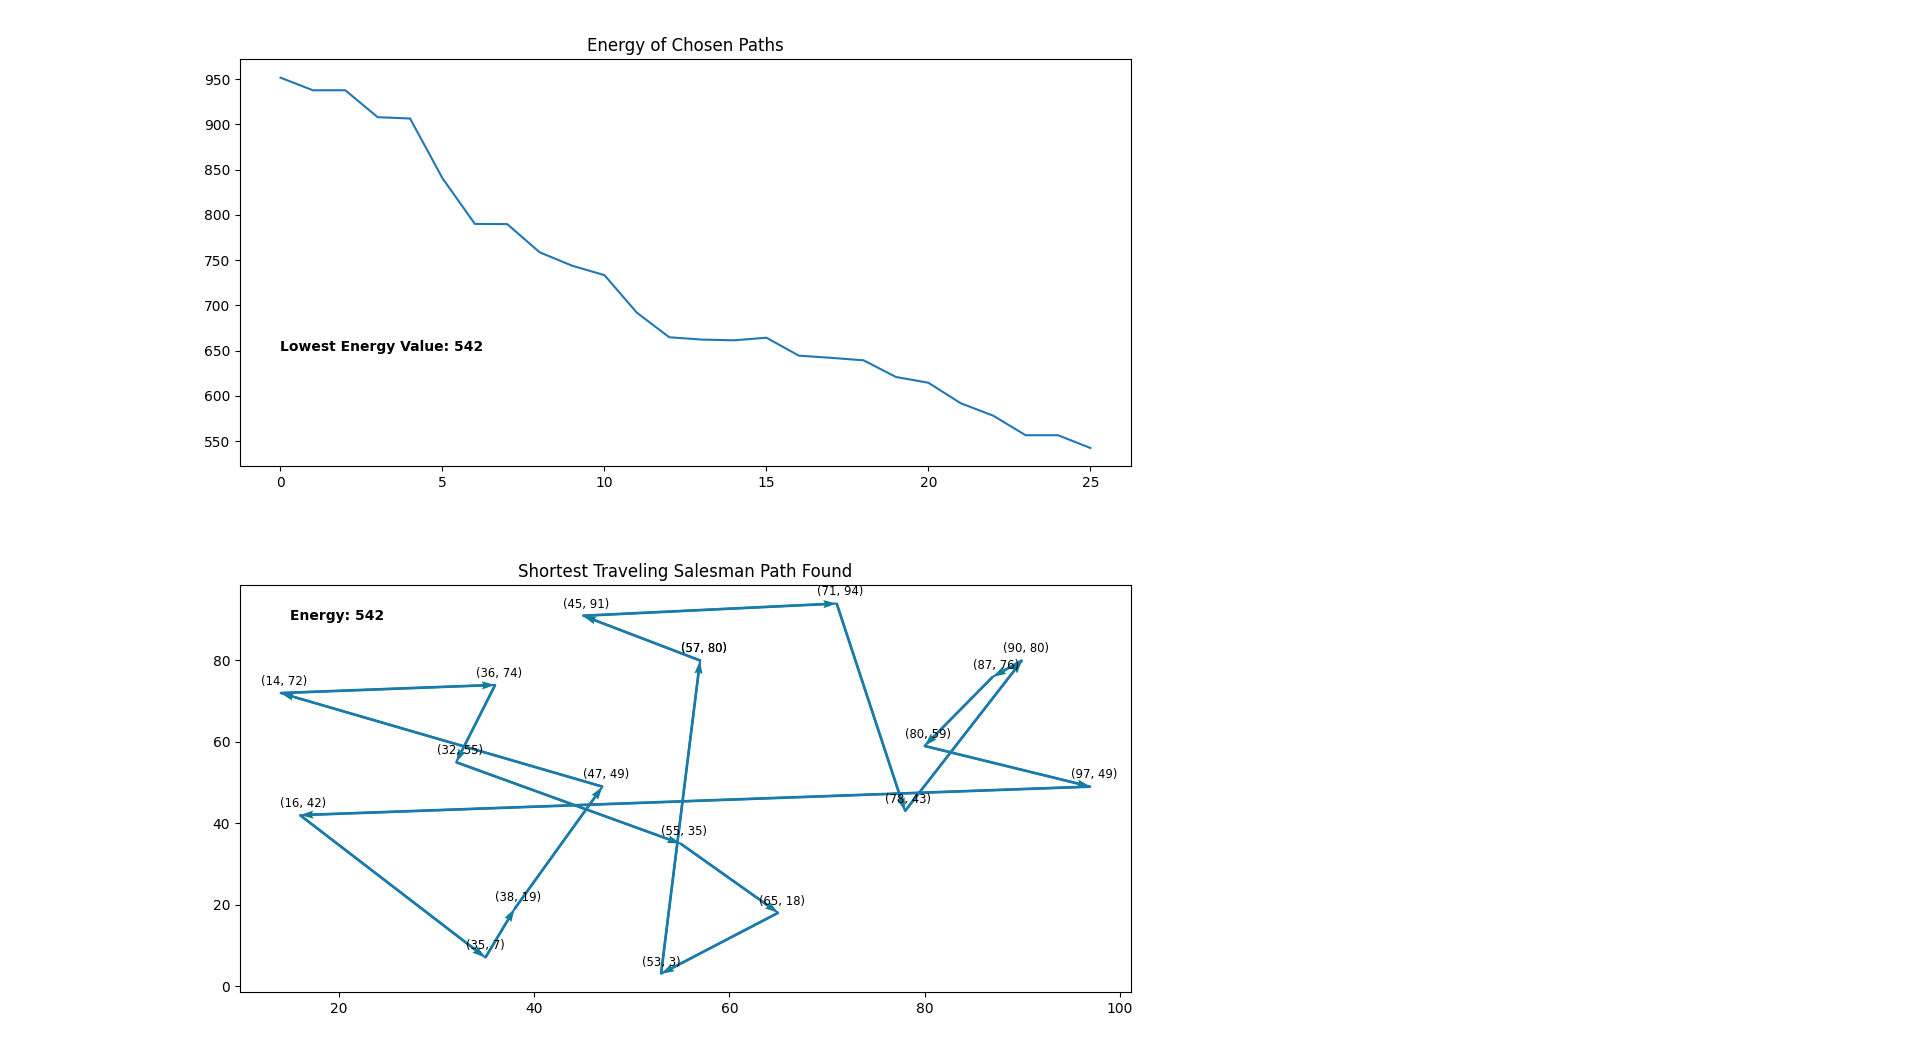
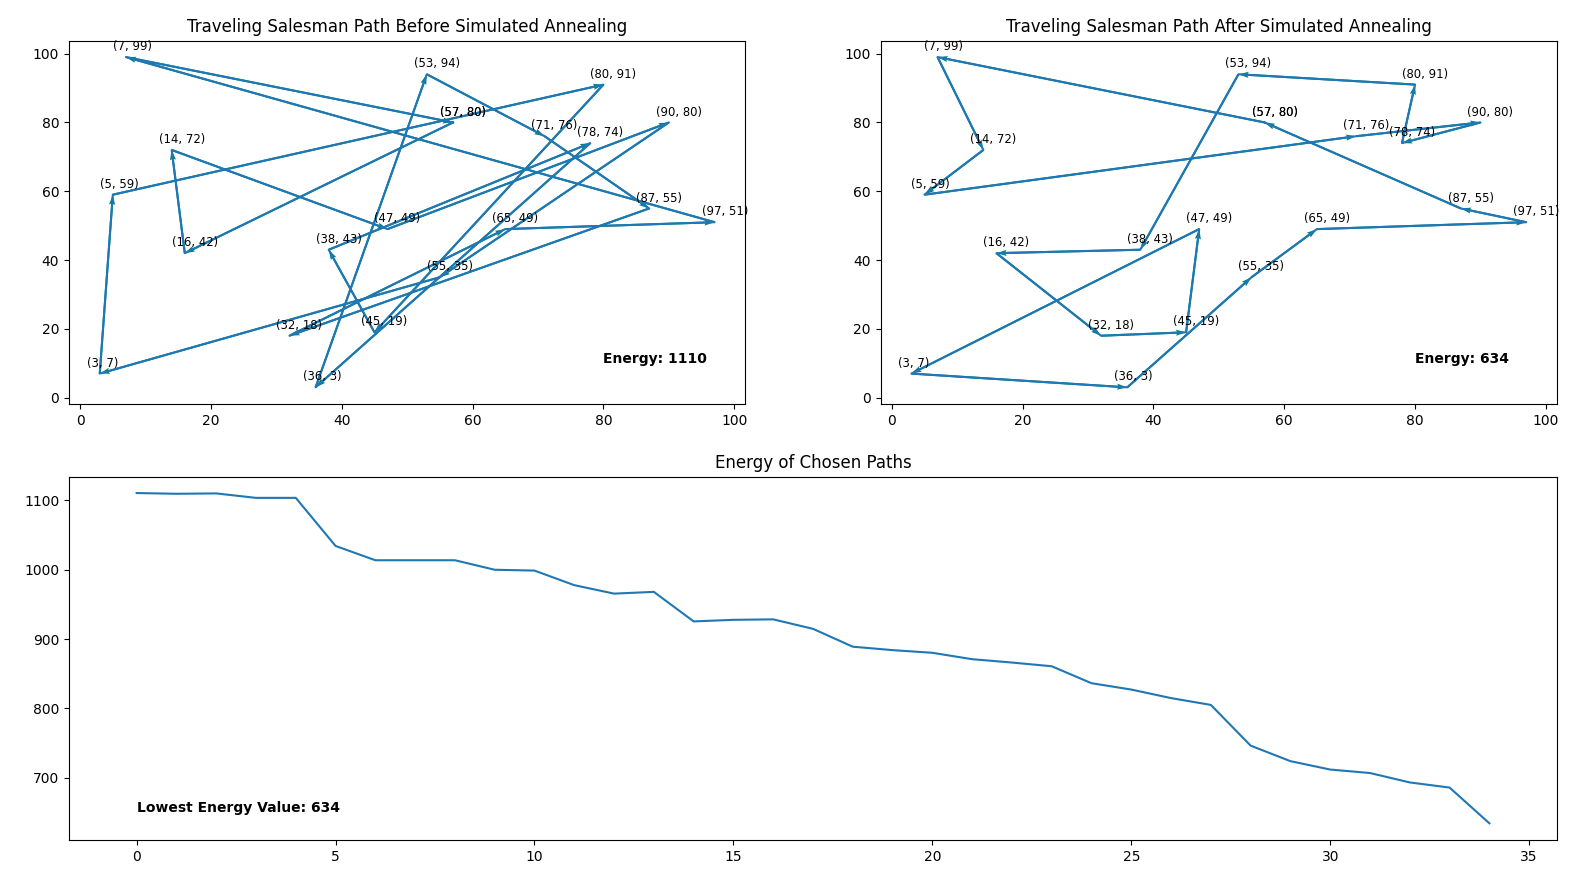
final changes with 3 subplots

diff --git a/project2/project2.py b/project2/project2.py
@@ -4,12 +4,13 @@ import random
 import time
 import copy
 
-xpos = np.array([57, 16, 14, 47, 90, 55, 35, 80, 45, 38, 78, 36, 53, 71, 87, 32, 65, 97, 7])
+xpos = np.array([57, 16, 14, 47, 90, 55, 3, 5, 80, 45, 38, 78, 36, 53, 71, 87, 32, 65, 97, 7])
 ypos = np.array([80, 42, 72, 49, 80, 35, 7, 59, 91, 19, 43, 74, 3, 94, 76, 55, 18, 49, 51, 99])
 
 # Define iterator, second parameter is the step size
 # The first and the last coordinates in the paths will never be chosen
-iterator = np.arange(1,xpos.size-1,1)
+iterator = np.arange(1,xpos.size,1)
+original_iterator = copy.deepcopy(iterator)
 
 def get_distance(x1,y1,x2,y2):
     """x1/y1 correspond to first coordinate
@@ -56,8 +57,8 @@ ax.clear()
 best_iterator = copy.deepcopy(iterator)
 loop_counter = 1
 T = 2
-T_stop = 0.00001
-T_decimation = 0.9999 
+T_stop = 0.000001
+T_decimation = 0.99999 
 while T > T_stop:
     loop_counter += 1
     iterator = swap(iterator)
@@ -94,43 +95,55 @@ while T > T_stop:
     plt.title("Traveling Salesman Path")
     for i, j in zip(xpath, ypath): # Writes the (x,y) coordinates above the coordinate location
             plt.text(i-4, j+1, '({}, {})'.format(i, j), fontsize='small')
-    plt.text(10, 90, f'Energy: {int(energy)}', fontsize='medium', weight="bold")
+    plt.text(60, 15, f'Energy: {int(energy)}', fontsize='medium', weight="bold")
     format_T = "{:.3f}".format(T)
-    plt.text(10, 85, f'Temperature: {format_T}', fontsize='medium', weight="bold")
+    plt.text(60, 10, f'Temperature: {format_T}', fontsize='medium', weight="bold")
     fig.canvas.draw()
     # to flush the GUI events
     fig.canvas.flush_events()
     ax.clear()
     time.sleep(0.1)
 
-# print(f"best_iterator: {best_iterator}")
+# print(f"original_iterator size: {original_iterator.size}\n{original_iterator}")
+# print(f"best_iterator size: {best_iterator.size}\n{best_iterator}")
 lowest_energy = total_energy(xpos,ypos,best_iterator)
-print(f"lowest_energy: {lowest_energy}")
-print(f"min value in energy_list: {np.amin(energy_list)}")
-energy = total_energy(xpos,ypos,best_iterator)
+# print(f"lowest_energy: {lowest_energy}")
+# print(f"min value in energy_list: {np.amin(energy_list)}")
 
 # Turn off the fast updating plot
 plt.ioff()
 ax.remove()
 
 # Plot the energy decrease over time
-plt.subplot(2, 1, 1)
+plt.subplot(2, 1, 2)
 plt.plot(energy_list)
 plt.title("Energy of Chosen Paths")
 plt.text(0, 650, f'Lowest Energy Value: {int(np.amin(energy_list))}', fontsize='medium', weight="bold")
 
+# Plot the unoptimized path
+plt.subplot(2, 2, 1)
+xpath = np.append(xpos,xpos[0])
+ypath = np.append(ypos,ypos[0])
+plt.plot(xpath,ypath)
+plt.quiver(xpath[:-1], ypath[:-1], xpath[1:]-xpath[:-1], 
+                   ypath[1:]-ypath[:-1],scale_units='xy', angles='xy', scale=1, color='teal', width=0.003)
+plt.title("Traveling Salesman Path Before Simulated Annealing")
+for i, j in zip(xpath, ypath): # Writes the (x,y) coordinates above the coordinate location
+            plt.text(i-2, j+2, '({}, {})'.format(i, j), fontsize='small')
+plt.text(80, 10, f'Energy: {int(energy_list[0])}', fontsize='medium', weight="bold")
+
 # Plot the ending path
-plt.subplot(2, 1, 2)
+plt.subplot(2, 2, 2)
 xpath = np.append(np.append(xpos[0],xpos[best_iterator]),xpos[0])
 ypath = np.append(np.append(ypos[0],ypos[best_iterator]),ypos[0])
 plt.plot(xpath,ypath)
 plt.quiver(xpath[:-1], ypath[:-1], xpath[1:]-xpath[:-1], 
                    ypath[1:]-ypath[:-1],scale_units='xy', angles='xy', scale=1, color='teal', width=0.003)
-plt.title("Shortest Traveling Salesman Path Found")
+plt.title("Traveling Salesman Path After Simulated Annealing")
 for i, j in zip(xpath, ypath): # Writes the (x,y) coordinates above the coordinate location
             plt.text(i-2, j+2, '({}, {})'.format(i, j), fontsize='small')
-plt.text(15, 90, f'Energy: {int(energy)}', fontsize='medium', weight="bold")
-plt.subplots_adjust(left=0.125, bottom=0.044, right=0.589, top=0.943, wspace=0.2, hspace=0.291)
+plt.text(80, 10, f'Energy: {int(lowest_energy)}', fontsize='medium', weight="bold")
+# plt.subplots_adjust(left=0.125, bottom=0.044, right=0.589, top=0.943, wspace=0.2, hspace=0.291)
 manager = plt.get_current_fig_manager()
 manager.full_screen_toggle() # Make full screen for better view, Alt-F4 to exit full screen
 plt.show()
